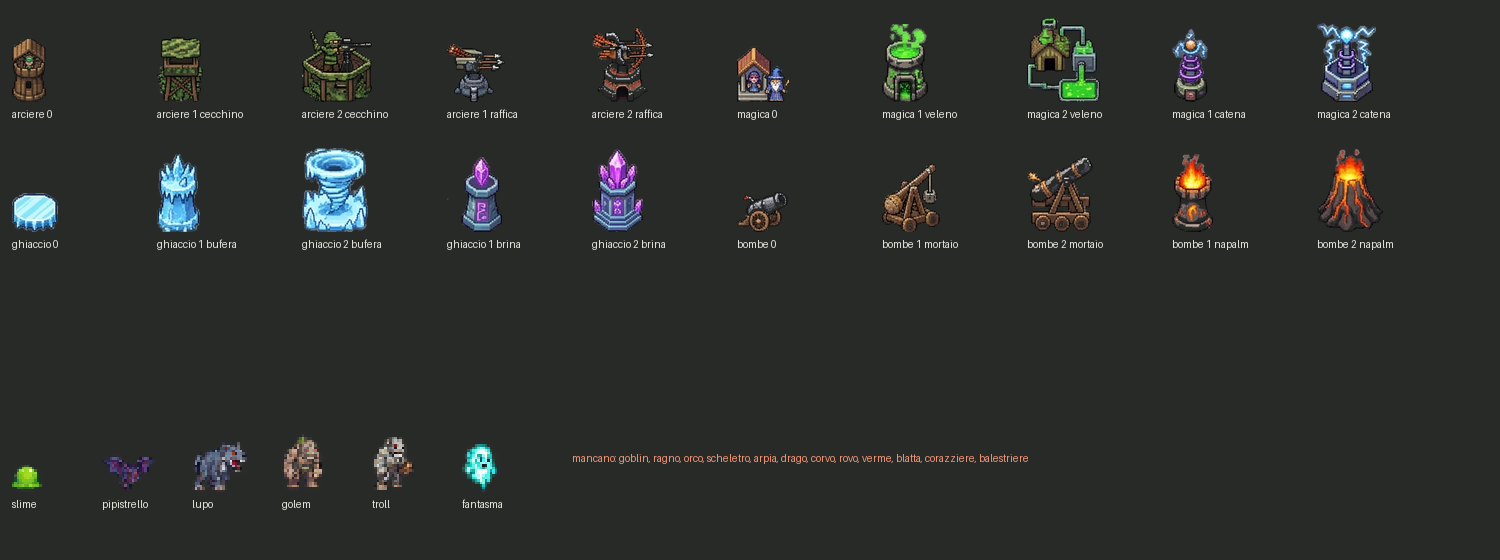
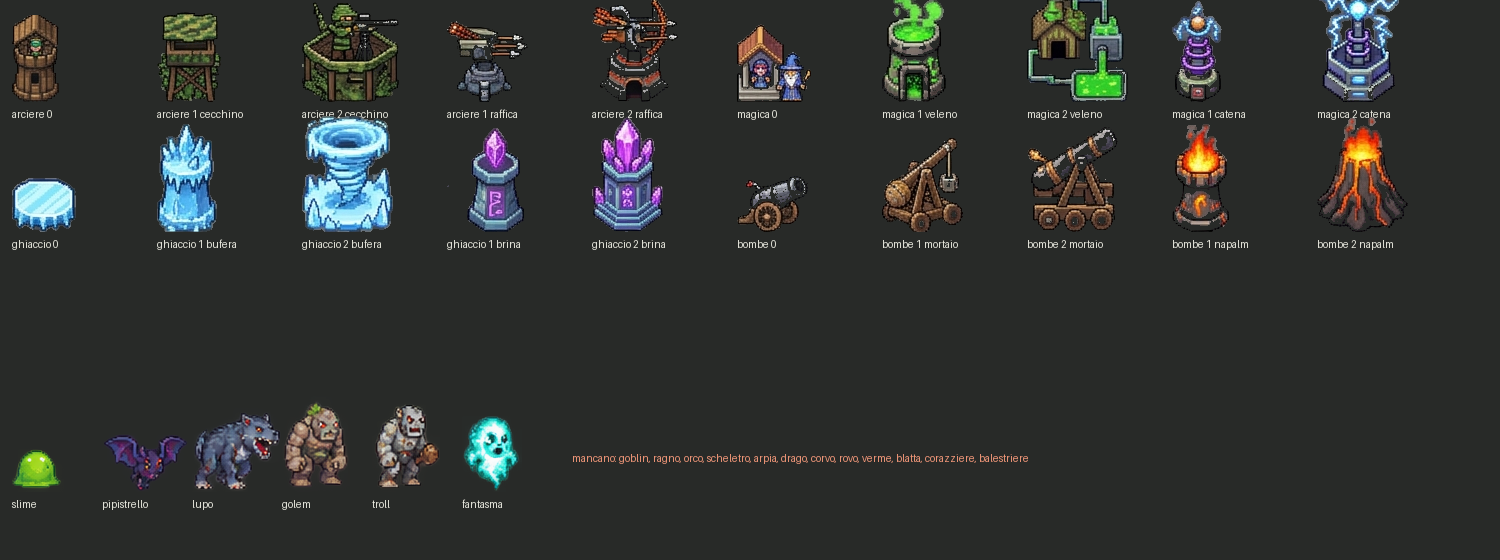
Sprite: il piano di cosa generare per castello e sotterraneo, coi prompt
DA-GENERARE.md mette in fila cosa manca, cosa sblocca, quante immagini
costa e cosa allegare: il foglio del terreno del bosco, le torri nella
mano delle scene (PVX1O ha la provenienza ignota), la lava più calma,
i fogli di neve e lava rivestendo quello del bosco, e i mostri che
camminano in tre fogli da sei. I mostri del castello non si generano:
i diciotto si coprono con le creature che i fogli del sotterraneo hanno
già, e la tabella dice quale.

Un foglio solo serve tutti e due i giochi perché una cella è 16 pixel
del disegno in entrambi: la prova adesso prende mostri e torri alla
misura del loro foglio, e hanno la grana della scena.

diff --git a/strumenti/sprite/prova-battaglia.py b/strumenti/sprite/prova-battaglia.py
@@ -17,6 +17,8 @@ in posa, con tutto quello che c'è già in casa —
   · **i mostri** dai fogli generati del sotterraneo (`mostri-1.png`,
     `mostri-2.png`), coi loro foglietti: sei dei diciotto del castello ci
     sono già (`MOSTRI`), gli altri no, e la prova lo dice.
+
+Cosa manca e con che prompt generarlo: `DA-GENERARE.md`, qui accanto.
 """
 import json
 import sys
@@ -56,13 +58,20 @@ FIGURE = {
     ('bombe', 1, 'mortaio'): ('Artillery', 1), ('bombe', 2, 'mortaio'): ('Artillery', 2),
     ('bombe', 1, 'napalm'): ('Fire', 1), ('bombe', 2, 'napalm'): ('Fire', 2),
 }
-SCALA_TORRI = 0.72
+SCALA_TORRI = 1.0
 
 # ── i mostri: quelli del castello che il sotterraneo ha già ─────────
 # nome nel castello → nome nel foglietto del sotterraneo
 MOSTRI = {'slime': 'melma', 'pipistrello': 'pipistrello', 'lupo': 'lupo',
           'golem': 'golem', 'troll': 'troll', 'fantasma': 'fantasma'}
-SCALA_MOSTRI = 2.5
+# I fogli dei mostri sono dipinti a scala 4 — quattro pixel dello
+# schermo per pixel del disegno — e le scene pure: una cella da 64 px è
+# 16 pixel del disegno in tutti e due. Quindi i mostri si prendono **alla
+# misura del foglio**, senza ridurli né ingrandirli, ed è anche il
+# motivo per cui un foglio di mostri solo serve il sotterraneo e il
+# castello. Ingranditi di due e mezzo (la prima prova) avevano la grana
+# più fine della scena e sembravano appiccicati.
+SCALA_MOSTRI = 1
 
 
 def torre(foglio, colonna, riga):
@@ -88,8 +97,8 @@ def mostri():
                 continue
             (x, y), (w, h) = d['da'], d['cella']
             pz = im.crop((x * s, y * s, (x + w) * s, (y + h) * s))
-            pz = pz.resize((w, h), Image.NEAREST)        # alla misura vera, poi su
-            fuori[nostro] = pz.resize((round(w * SCALA_MOSTRI), round(h * SCALA_MOSTRI)), Image.NEAREST)
+            fuori[nostro] = pz.resize((round(pz.width * SCALA_MOSTRI), round(pz.height * SCALA_MOSTRI)),
+                                      Image.LANCZOS)
     return fuori
 
 

diff --git a/strumenti/sprite/DA-GENERARE.md b/strumenti/sprite/DA-GENERARE.md
@@ -1,0 +1,219 @@
+# Cosa generare, in che ordine, con che prompt
+
+Il piano degli sprite **comune al castello e al sotterraneo**, scritto il
+25 settembre 2026 guardando la battaglia finta
+(`poc/scatti/castello-battaglia.png`, che si rifà con
+`node strumenti/sprite/carte-castello.mjs`). Si aggiorna ogni volta che
+un'immagine arriva: una voce fatta si segna ✅ con il nome del file.
+
+## La regola che rende possibile un foglio per due giochi
+
+**Una cella è 16 pixel del disegno, in tutti e due i giochi.** Le scene
+del castello (`td_1.png`…) sono dipinte con celle da 64 px, cioè
+quattro pixel dello schermo per pixel del disegno; i fogli di creature
+del sotterraneo (`mostri-1.png`, `mostri-2.png`) sono a scala 4 anche
+loro; e la cella del sotterraneo è di 16 px. Quindi un mostro preso
+**alla misura del suo foglio**, senza ridurlo né ingrandirlo, ha la
+stessa grana della scena in tutti e due i giochi. Nella prima prova i
+mostri erano ingranditi di due e mezzo e sembravano appiccicati; alla
+misura del foglio sembrano del posto.
+
+Per questo ogni prompt qui sotto dice le misure **in celle da 64 px**, e
+la grana sempre allo stesso modo: «ogni pixel del disegno è un quadrato
+di 4×4 px».
+
+## Cosa NON serve generare
+
+- **I mostri del castello.** Un mostro vale l'altro (parole
+  dell'utente: «puoi usare un mostro per un altro, è abbastanza
+  irrilevante»), e i due fogli del sotterraneo hanno 54 creature, di cui
+  ne sono ritagliate 11. I diciotto del castello ci stanno tutti:
+
+  | castello | resiste a | creatura nei fogli | foglio | ritagliata |
+  |---|---|---|---|---|
+  | slime | magica | la melma verde | mostri-1 | ✅ `melma` |
+  | goblin | arciere | lo scheletro con spada e scudo | mostri-2 | da ritagliare |
+  | pipistrello | arciere | il pipistrello | mostri-1 | ✅ `pipistrello` |
+  | fantasma | magica | il fantasma | mostri-2 | ✅ `fantasma` |
+  | ragno | arciere | il ragno nero | mostri-1 | da ritagliare |
+  | orco | arciere | lo zombie verde | mostri-1 | da ritagliare |
+  | scheletro | bombe | lo scheletro | mostri-1 | da ritagliare |
+  | golem | magica | il golem di pietra bruna | mostri-1 | ✅ `golem` |
+  | arpia | bombe | il grifone | mostri-1 | da ritagliare (le figure si toccano) |
+  | drago | bombe | il drago rosso con le ali | mostri-1 | da ritagliare (le figure si toccano) |
+  | lupo | arciere | il lupo | mostri-1 | ✅ `lupo` |
+  | corvo | arciere | il pipistrello con l'occhio | mostri-2 | da ritagliare |
+  | rovo | bombe | la pianta carnivora | mostri-1 | da ritagliare |
+  | verme | bombe | il serpente | mostri-2 | ✅ `serpente` |
+  | blatta | magica | lo scorpione | mostri-2 | da ritagliare |
+  | troll | magica | l'omone grigio con la clava | mostri-1 | ✅ `troll` |
+  | corazziere | arciere | la tartaruga corazzata | mostri-2 | da ritagliare |
+  | balestriere | bombe | il diavoletto | mostri-1 | da ritagliare |
+
+  Il nome che il castello dà al mostro resta quello del gioco (è la
+  chiave della sua resistenza); cambia solo la figura. Quando si rifà il
+  gioco conviene rinominare i mostri come le figure, così il nastro
+  «arriva il grifone» dice quello che si vede.
+
+- **I colpi, le barre della vita, il raggio delle torri**: li disegna il
+  gioco, com'era deciso ad agosto.
+- **Il castello e la bocca**: si prendono dalla scena, e sono identici
+  nei tre vestiti.
+
+## Il lavoro senza gettoni
+
+Da fare in sessione, senza generare niente:
+
+1. ritagliare le undici creature «da ritagliare» qui sopra: una riga di
+   foglietto ciascuna, misurata con `strumenti/sprite/misura.py`; il
+   grifone e il drago vanno segmentati a mano perché si toccano;
+2. ridisegnare a mano sulla scacchiera la radura grande
+   (`DA_RIDISEGNARE` in `src/giochi/castello/motore/carta.js`);
+3. quando c'è il foglio del terreno: il suo foglietto, e rifare il gioco
+   sulle carte (vedi «Come si monta nel gioco» nella scheda del castello).
+
+## Le priorità
+
+Ogni voce dice cosa sblocca, quante immagini costa, e cosa allegare.
+
+### 1 — Il foglio del terreno del bosco · 1 immagine
+
+**Sblocca** le carte vere: finisce il provvisorio (`vesti.py`, che
+ritaglia dalla scena), arrivano i tre specchi d'acqua veri e il lago che
+entra dal bordo, i pezzi alti del fitto, i decori grandi.
+
+**Prompt**: il prompt 2 della scheda del castello
+([`sorgenti/castello/generati/PROMPT-scenario.md`](sorgenti/castello/generati/PROMPT-scenario.md)),
+con in coda il blocco del bosco. **Allegati**: `td_1.png` e
+`PROMPT-scenario-foglio.png`. Nella stessa chat di `td_1`, se c'è
+ancora.
+
+### 2 — Le torri, nella mano delle scene · 1 immagine
+
+**Perché**: le torri della prova vengono da
+`sorgenti/castello/non-usati/PVX1O.png`, che ha la **provenienza non
+documentata** — va rifatto prima di pubblicare, come `terreni.png`. E
+già che si rifà: gli stadi iniziali sono sproporzionati (il ghiaccio
+appena costruito è un disco piatto, le bombe un cannoncino minuscolo
+accanto a torri di due celle), la brina non ha una figura sua (nella
+prova prende i cristalli viola di «Arcane») e gli stadi alti sbordano
+sulla strada.
+
+**Allegati**: `td_1.png` (la mano) e `PVX1O.png` (cosa è ogni torre).
+
+```text
+Disegna il foglio delle torri (uno sprite sheet) di questo gioco di difesa della torre, nella mano ESATTA della scena allegata: stesso contorno scuro, stessa luce da in alto a sinistra, stessa tavolozza, stessa grana — ogni pixel del disegno è un quadrato pieno di 4×4 px. La seconda immagine allegata è il VECCHIO foglio delle torri: dice cosa è ogni torre e come cresce, ma la mano da seguire è quella della scena, non quella.
+
+Il foglio è ORIZZONTALE, 1536×1024 px, su FONDO TRASPARENTE (PNG), su una griglia invisibile di celle da 64×64 px. Ogni torre sta in piedi su una piazzola di una cella e si vede dall'alto a tre quarti, come il castello della scena: la base occupa la cella, il corpo sale sulla cella di sopra. Ogni figura è staccata dalle altre da almeno mezza cella di trasparente. Nessuna ombra sotto, nessun bagliore attorno, nessuna cornice, nessuna piazzola disegnata sotto. NESSUNA PAROLA SCRITTA, NESSUN NUMERO, NESSUNA ETICHETTA.
+
+Quattro righe, una per torre, e in ogni riga cinque figure da sinistra a destra: la torre appena costruita; poi il primo ramo, cresciuto e al massimo; poi il secondo ramo, cresciuto e al massimo. Le misure: appena costruita larga una cella e alta una e mezza; cresciuta larga una cella e alta due; al massimo alta due e mezza e MAI PIÙ LARGA DI UNA CELLA E MEZZA, perché accanto passa la strada.
+
+1. L'ARCIERE, che tira frecce veloci su un nemico solo. Appena costruita: una torretta di legno con un arciere in cima. Primo ramo, IL CECCHINO, che vede lontanissimo e tira un colpo forte e lento: una torre alta e stretta con un tiratore che mira col cannocchiale. Secondo ramo, LA RAFFICA, due frecce per volta su due nemici: una balestra doppia montata su un perno che gira.
+2. LA MAGICA, un'onda magica che colpisce a zona. Appena costruita: una torretta di pietra con un cristallo viola che galleggia sopra. Primo ramo, IL VELENO, il male che continua da solo: un calderone verde che ribolle e fuma. Secondo ramo, LA CATENA, il colpo che rimbalza di nemico in nemico: una bobina di rame con i fulmini azzurri in cima.
+3. IL GHIACCIO, che non fa male ma congela i nemici vicini. Appena costruita: una piccola torre di ghiaccio azzurro, in piedi, non un disco piatto. Primo ramo, LA BUFERA, che gela molto largo: la torre di ghiaccio con un vortice di neve che le gira attorno. Secondo ramo, LA BRINA, che gela di più e rende fragili i nemici: una torre di cristalli di ghiaccio appuntiti, bianchi e azzurri.
+4. LE BOMBE, un colpo lento e devastante. Appena costruita: un cannone di ferro su un affusto di legno, grande quanto le altre torri appena costruite. Primo ramo, IL MORTAIO, che arriva lontanissimo: un mortaio grosso e tozzo che punta al cielo. Secondo ramo, IL NAPALM, che scoppia largo e lascia bruciare: un cannone con la bocca a forma di testa di drago e una fiamma che tremola.
+
+Ogni torre si riconosce da lontano anche piccola, con una sagoma e un colore suoi — l'arciere legno e verde, la magica pietra e viola, il ghiaccio azzurro e bianco, le bombe ferro e arancio — e crescendo si capisce che è la stessa torre diventata più forte.
+```
+
+**Come si guarda**: le cinque di una riga sono la stessa torre; le
+cinque appena costruite hanno la stessa stazza; niente è più largo di
+una cella e mezza; niente scritte. Poi si mette nella prova: si cambia
+`FOGLIO_TORRI` in `prova-battaglia.py`.
+
+### 3 — La lava più calma · 1 immagine, una riga
+
+**Perché**: nella prova la lava è l'unico vestito dove le figure non si
+staccano — crepe e fiammelle dappertutto, e il fitto è un incendio. Il
+prompt 1 lo vietava («il terreno è il fondo: colori più spenti») e
+`td_3.png` non l'ha seguito. In più ha dei cristalli rossi sparsi che
+sembrano gemme da raccogliere.
+
+Nella chat dove è uscita `td_3.png`:
+
+```text
+Rifai la stessa scena con la lava, ma il terreno è il fondo: roccia scura, calma e uniforme, con poche crepe e nessuna fiammella sparsa; la lava resta solo nei laghi e ai bordi del campo, e il bosco dei bordi sono rupi scure, non fiamme. Niente cristalli. Non cambiare nient'altro: strada, piazzole, bocche e castello restano identici, nello stesso posto.
+```
+
+### 4 — I fogli del terreno della neve e della lava · 2 immagini, una riga l'una
+
+**Sblocca** gli altri due vestiti col foglio vero. Si fanno dopo il 1 e
+il 3, nella chat dove è uscito il foglio del bosco, allegando la scena
+di quel vestito:
+
+```text
+Rifai lo stesso foglio, pezzo per pezzo e ogni pezzo nella stessa posizione e della stessa misura, vestito come la scena allegata. Non spostare niente: cambia solo il vestito.
+```
+
+Se il foglio resta fermo com'è successo alle scene (entro due pixel del
+disegno), il foglietto del bosco vale anche per questi due.
+
+### 5 — I mostri che camminano, per tutti e due i giochi · 3 immagini
+
+**Arricchisce tutti e due**: oggi le creature generate hanno una posa
+sola, il respiro di lato (`unaPosa` nel sotterraneo). Nel castello i
+mostri scendono quasi sempre verso il basso e servono **di fronte**; nel
+sotterraneo camminano e oggi scivolano. Nello stesso giro si
+sostituiscono i quattro mostri che il sotterraneo prende ancora da
+0x72 (goblin, scheletro, orco, gigante), e i due giochi hanno una mano
+sola.
+
+Tre fogli da sei, sempre con lo stesso prompt; cambia solo l'elenco.
+**Allegati**: `mostri-1.png` e `mostri-2.png` (sono loro che si
+ridisegnano).
+
+```text
+Disegna un foglio di mostri che camminano (uno sprite sheet): sono le STESSE creature dei due fogli allegati — stessa figura, stessi colori, stesso contorno, stessa grana (ogni pixel del disegno è un quadrato pieno di 4×4 px) e stessa misura che hanno lì — adesso in cammino.
+
+Il foglio è ORIZZONTALE, 1536×1024 px, su FONDO TRASPARENTE (PNG). Nessuna ombra sotto, nessun bagliore colorato attorno, nessuno sfondo colorato dietro le righe, nessuna cornice. NESSUNA PAROLA SCRITTA, NESSUN NUMERO.
+
+Sei righe, una per mostro, staccate l'una dall'altra da almeno mezza cella di trasparente (una cella è 64 px). In ogni riga, da sinistra: quattro passi del mostro visto DI LATO che cammina verso destra; poi quattro passi dello stesso mostro visto DI FRONTE, che cammina verso chi guarda. I passi di una riga sono tutti della stessa altezza e con i piedi sulla stessa linea; chi vola sbatte le ali restando alla stessa altezza. Niente pose di morte, niente attacchi, niente fiamme o colpi che escono dal mostro.
+
+Le sei righe:
+```
+
+…e in coda l'elenco di quel foglio, una riga per mostro:
+
+| foglio | le sei righe |
+|---|---|
+| A | la melma verde · lo scheletro con spada e scudo · il pipistrello · il fantasma azzurro · il ragno nero · il lupo |
+| B | il golem di pietra bruna · l'omone grigio con la clava · lo scheletro · il drago rosso con le ali · il grifone · la pianta carnivora |
+| C | il serpente · lo scorpione viola · la tartaruga corazzata · il diavoletto rosso · lo zombie verde · il pipistrello con l'occhio |
+
+L'elenco va scritto **com'è la creatura nel foglio allegato**, non col
+nome che le dà il gioco: il generatore la deve trovare.
+
+### 6 — (facoltativo) Gli eroi del sotterraneo · 1 immagine
+
+L'ultimo pezzo di 0x72 dopo il 5: cavaliere, elfa, mago e nano, fermi e
+in corsa, nella stessa mano. Resta da decidere se vale la pena (vedi la
+memoria sugli scenari del sotterraneo).
+
+## In fila
+
+| # | cosa | immagini | allegati | sblocca |
+|---|---|---|---|---|
+| 1 | foglio del terreno, bosco | 1 | `td_1`, schema del foglio | le carte vere |
+| 2 | le torri | 1 | `td_1`, `PVX1O` | le torri pubblicabili |
+| 3 | la lava più calma | 1 | (chat di `td_3`) | un vestito che si legge |
+| 4 | fogli del terreno, neve e lava | 2 | la scena del vestito | gli altri due vestiti |
+| 5 | i mostri che camminano | 3 | `mostri-1`, `mostri-2` | mostri di fronte, e il sotterraneo tutto in una mano |
+| 6 | gli eroi | 1 | `mostri-1`, una scena | l'addio a 0x72 |
+
+Il **minimo per rifare il gioco** sono l'1 e il 2: col bosco, le torri
+nuove e i mostri che ci sono già (ritagliati alla sessione dopo) il
+castello si gioca. Il resto lo fa più bello, non lo fa funzionare.
+
+## Le trappole già note
+
+Valgono quelle delle schede della fattoria, del sotterraneo e del
+castello, riassunte:
+
+- i fogli tornano **verticali** anche chiesti orizzontali: si ritagliano
+  lo stesso, con una `misura` per pezzo;
+- il **fondo trasparente** torna con un alone: `"alone": 128` nel
+  foglietto. I fogli di creature del sotterraneo sono tornati **con un
+  bagliore colorato dietro ogni riga**: il prompt 5 lo vieta apposta;
+- le **scritte**: vietate in maiuscolo in tutti i prompt;
+- il **prompt si conserva nel foglietto** del foglio che ne esce, così
+  come è stato mandato.

diff --git a/strumenti/sprite/sorgenti/castello/generati/PROMPT-scenario.md b/strumenti/sprite/sorgenti/castello/generati/PROMPT-scenario.md
@@ -339,8 +339,11 @@ per tutti. Quante sono lo dice il gioco, non questa scheda:
 - **i colpi restano procedurali**, com'era deciso: nei fogli non c'è un
   proiettile, e lì il vettoriale è meglio.
 
-Le loro schede si scrivono quando c'è la scena del bosco, perché è lei
-che si allega.
+Il piano di cosa generare, in che ordine e con che prompt — torri,
+mostri che camminano, gli altri vestiti — sta in
+[`../../../DA-GENERARE.md`](../../../DA-GENERARE.md), ed è comune al
+sotterraneo: i mostri si prendono dai suoi fogli, che hanno la stessa
+grana delle scene.
 
 ## Le trappole già note
 
